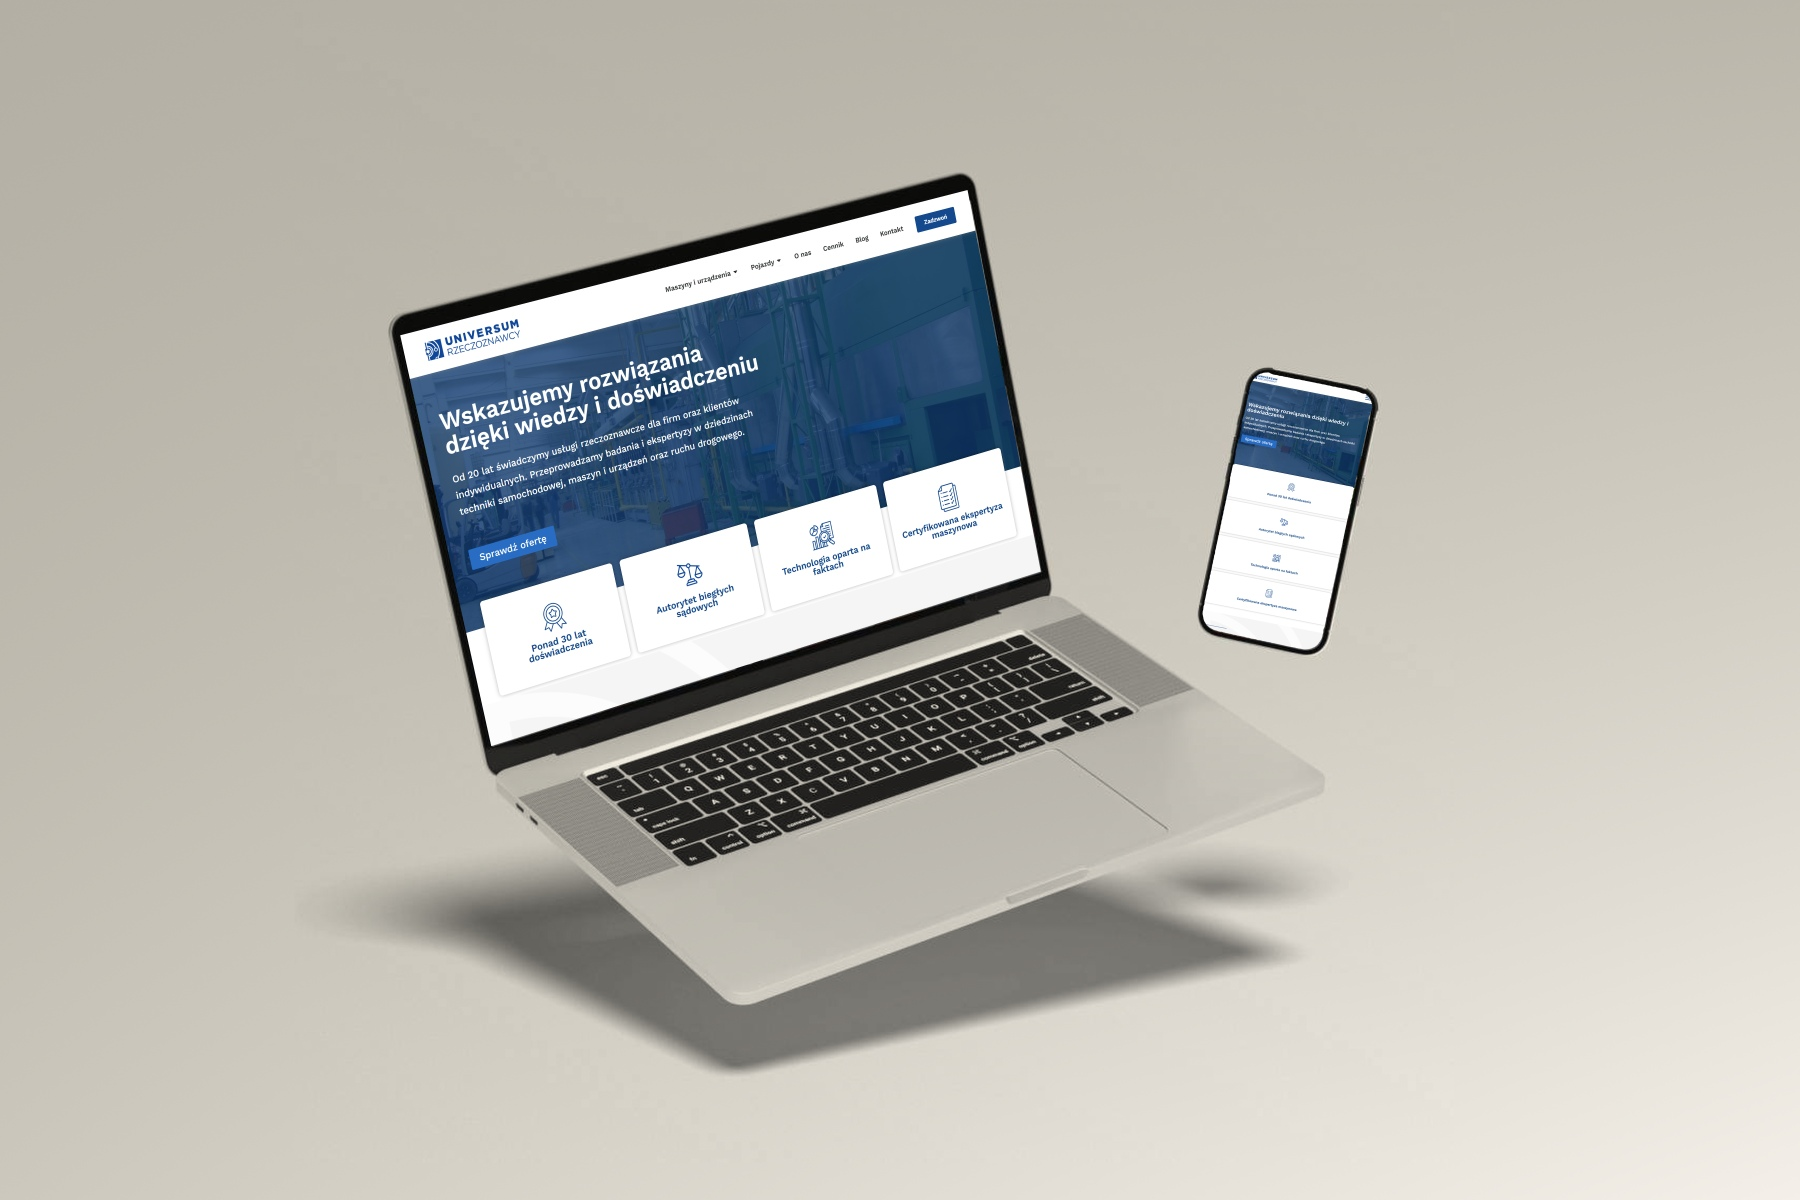
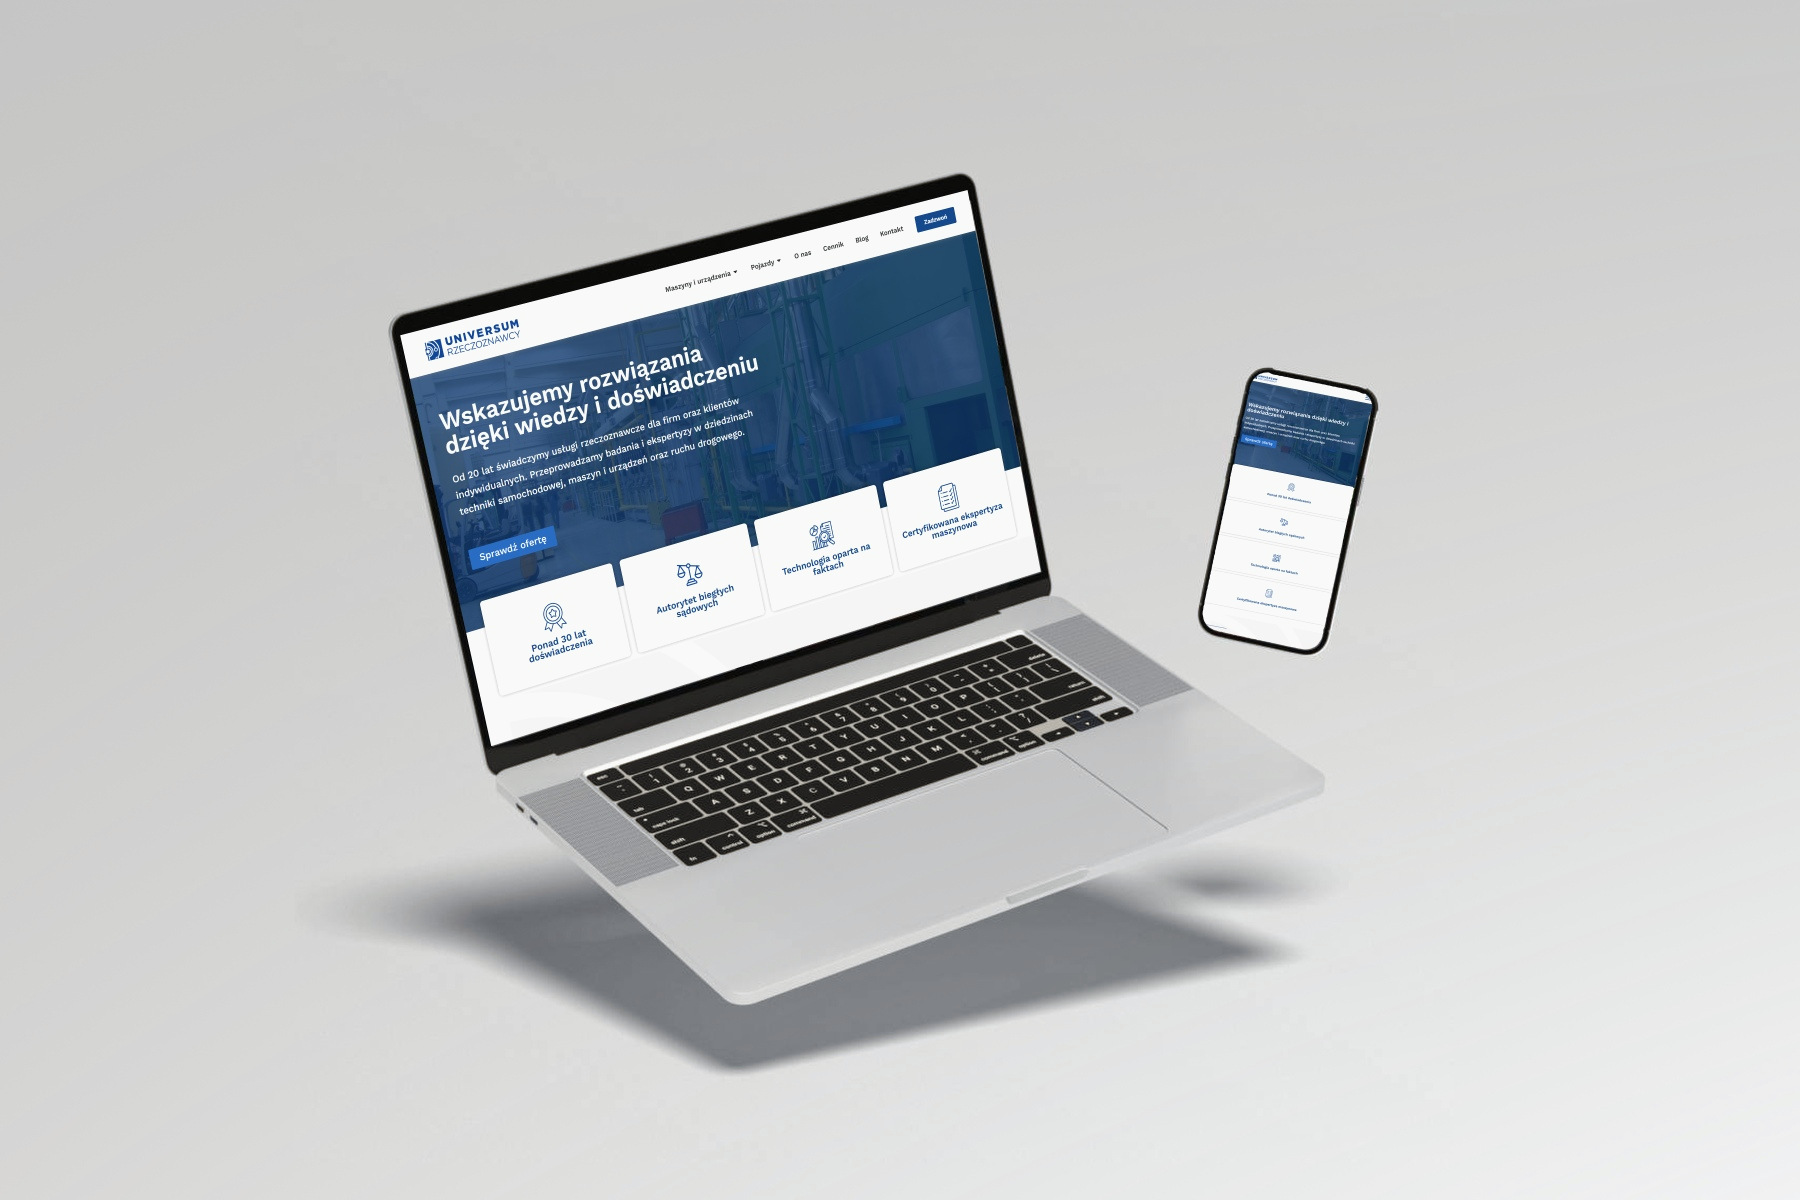
Add files via upload

diff --git a/bv6.html b/bv6.html
@@ -7,39 +7,7 @@
 <title>BV6 — Case Study | Yuliia Dovha</title>
 <meta name="description" content="BV6 — full UX audit and redesign for a technical-expert (rzeczoznawca) office covering vehicles, machinery and traffic accidents. UX/UI case study by Yuliia Dovha: audit, information architecture, content system and build.">
 <link rel="stylesheet" href="style.css?v=3">
-<link rel="stylesheet" href="marmix-additions.css?v=11">
-<style>
-  /* --- bv6 only: small addition on top of the shared case-study system --- */
-  .bv6-shot{
-    max-width: 560px; margin: 28px auto 0;
-    aspect-ratio: 3 / 4; overflow: hidden;
-    border-radius: var(--r-img); border: 1px solid var(--line);
-    box-shadow: 0 24px 60px -34px rgba(0,0,0,.30);
-  }
-  .bv6-shot img{ width: 100%; height: 100%; object-fit: cover; object-position: top center; display: block; }
-
-  /* --- before/after lightbox --- */
-  .ba-pair{ cursor: zoom-in; }
-  .lightbox{
-    position: fixed; inset: 0; background: rgba(10,10,10,.92);
-    display: none; align-items: center; justify-content: center;
-    flex-direction: column; gap: 18px; z-index: 999; padding: 56px 20px 40px;
-  }
-  .lightbox.open{ display: flex; }
-  .lb-close{
-    position: absolute; top: 18px; right: 22px; width: 42px; height: 42px;
-    border-radius: 50%; border: 1px solid rgba(255,255,255,.3); background: rgba(255,255,255,.08);
-    color: #fff; font-size: 22px; line-height: 1; cursor: pointer;
-  }
-  .lb-close:hover{ background: rgba(255,255,255,.18); }
-  .lb-inner{ display: flex; gap: 22px; max-width: 1240px; width: 100%; }
-  .lb-fig{ position: relative; flex: 1; min-width: 0; }
-  .lb-fig img{ width: 100%; height: auto; max-height: 76vh; object-fit: contain; border-radius: var(--r-img); display: block; background: #111; }
-  .lb-cap{ color: #d8d8d8; font-size: 14px; text-align: center; max-width: 760px; font-weight: 300; line-height: 1.6; }
-  .lb-cap strong{ color: #fff; }
-  .lb-hint{ color: #8a8a8a; font-size: 12px; text-align: center; }
-  @media (max-width: 720px){ .lb-inner{ flex-direction: column; overflow-y: auto; max-height: 78vh; } .lb-fig img{ max-height: none; } }
-</style>
+<link rel="stylesheet" href="marmix-additions.css?v=12">
 </head>
 <body class="marmix">
 
@@ -82,7 +50,7 @@
     </div>
   </div>
 
-  <!-- SHOWCASE 1: overview collage -->
+  <!-- SHOWCASE 1: two windows -->
   <section class="showcase-block reveal">
     <figure class="fullbleed">
       <img src="bv6-overview-2.jpg" alt="BV6 redesign — laptop and mobile views of the rebuilt site">
@@ -216,6 +184,14 @@
     </ol>
   </section>
 
+  <!-- SHOWCASE 2: six views -->
+  <section class="showcase-block reveal">
+    <figure class="fullbleed">
+      <img src="bv6-overview-1.jpg" alt="Overview of the redesigned BV6 site — six key screens in one view">
+    </figure>
+    <p class="cs-caption">The final approved designs &mdash; homepage, service pages, the rebuilt blog and contact, in one view.</p>
+  </section>
+
   <!-- KEY DECISIONS, VISUALISED -->
   <section class="cs-block reveal">
     <header class="sec-head">
@@ -277,14 +253,6 @@
     </div>
   </section>
 
-  <!-- SHOWCASE 2: second overview -->
-  <section class="showcase-block reveal">
-    <figure class="fullbleed">
-      <img src="bv6-overview-1.jpg" alt="BV6 redesign — a wider view of service pages and the new blog">
-    </figure>
-    <p class="cs-caption">A quick look across the redesign &mdash; homepage, service pages and the mobile experience side by side.</p>
-  </section>
-
   <!-- MOBILE / RESPONSIVE -->
   <section class="mobile-block reveal">
     <div class="wrap mobile-inner">
@@ -305,7 +273,7 @@
   <!-- 05 SOLUTION & RESULTS -->
   <section class="cs-block reveal">
     <header class="sec-head">
-      <span class="eyebrow idx">05</span>
+      <span class="eyebrow idx">04</span>
       <h2 class="sec-title">Solution &amp; results</h2>
     </header>
     <p>The full range &mdash; vehicles, machinery and traffic incidents &mdash; now sits under two
@@ -338,15 +306,15 @@
     <p class="h">Read more of my case studies</p>
     <div class="more-grid">
       <a class="mc" href="marmix.html">
-        <div class="mc-thumb has-img"><img class="mc-img" src="marmix-hero.jpg" alt="Marmix homepage shown on a MacBook and phone"><span class="mc-go">Read case &rarr;</span></div>
+        <div class="mc-thumb has-img"><img class="mc-img" src="marmix-hero.jpg" alt="Marmix homepage shown on a MacBook and phone"></div>
         <h4>Marmix</h4><p>Ready-mix concrete manufacturer &mdash; full audit, research and redesign.</p>
       </a>
       <a class="mc" href="biezynski.html">
-        <div class="mc-thumb"><span class="mc-mono">Bi</span><span class="mc-go">Read case &rarr;</span></div>
+        <div class="mc-thumb"><span class="mc-mono">Bi</span></div>
         <h4>Bie&#380;ynski</h4><p>A heritage family bakery reborn as a digital-first brand.</p>
       </a>
       <a class="mc" href="kalinamed.html">
-        <div class="mc-thumb"><span class="mc-mono">Km</span><span class="mc-go">Read case &rarr;</span></div>
+        <div class="mc-thumb"><span class="mc-mono">Km</span></div>
         <h4>KalinaMed</h4><p>Patient-focused personal brand for a doctor.</p>
       </a>
     </div>

diff --git a/marmix.html b/marmix.html
@@ -7,7 +7,7 @@
 <title>Marmix — Case Study | Yuliia Dovha</title>
 <meta name="description" content="Marmix — redesign of a ready-mix concrete manufacturer's website. UX/UI case study by Yuliia Dovha: audit, research, information architecture, UI design and build.">
 <link rel="stylesheet" href="style.css?v=3">
-<link rel="stylesheet" href="marmix-additions.css?v=11">
+<link rel="stylesheet" href="marmix-additions.css?v=12">
 </head>
 <body class="marmix">
 
@@ -97,7 +97,7 @@
       <header class="sec-head">
         <span class="eyebrow">Before &amp; after</span>
         <h2 class="sec-title">The same pages, rethought</h2>
-        <p class="sec-lead">Four key pages, shown as the buyer first sees them &mdash; the 2015 site on the left, the redesign on the right.</p>
+        <p class="sec-lead">Four key pages, shown as the buyer first sees them &mdash; the 2015 site on the left, the redesign on the right. Click any pair to compare them full-size.</p>
       </header>
 
       <div class="ba-grid">
@@ -310,15 +310,15 @@
     <p class="h">Read more of my case studies</p>
     <div class="more-grid">
       <a class="mc" href="bv6.html">
-        <div class="mc-thumb has-img"><img class="mc-img" src="bv6-hero.jpg" alt="BV6 homepage shown on a laptop and phones"><span class="mc-go">Read case &rarr;</span></div>
+        <div class="mc-thumb has-img"><img class="mc-img" src="bv6-hero.jpg" alt="BV6 homepage shown on a laptop and phones"></div>
         <h4>BV6</h4><p>Technical-expert office &mdash; UX audit, IA and a content system for dense, trust-critical information.</p>
       </a>
       <a class="mc" href="biezynski.html">
-        <div class="mc-thumb"><span class="mc-mono">Bi</span><span class="mc-go">Read case &rarr;</span></div>
+        <div class="mc-thumb"><span class="mc-mono">Bi</span></div>
         <h4>Bie&#380;ynski</h4><p>A heritage family bakery reborn as a digital-first brand.</p>
       </a>
       <a class="mc" href="kalinamed.html">
-        <div class="mc-thumb"><span class="mc-mono">Km</span><span class="mc-go">Read case &rarr;</span></div>
+        <div class="mc-thumb"><span class="mc-mono">Km</span></div>
         <h4>KalinaMed</h4><p>Patient-focused personal brand for a doctor.</p>
       </a>
     </div>
@@ -331,6 +331,17 @@
     <div class="reveal"><a class="btn" href="mailto:julidovha05@gmail.com">Contact Me</a></div>
   </section>
 </main>
+
+<!-- BEFORE/AFTER LIGHTBOX -->
+<div class="lightbox" id="lightbox">
+  <button class="lb-close" id="lbClose" aria-label="Close">&times;</button>
+  <div class="lb-inner">
+    <figure class="lb-fig"><span class="ba-tag old">Before</span><img id="lbImgOld" alt=""></figure>
+    <figure class="lb-fig"><span class="ba-tag new">After</span><img id="lbImgNew" alt=""></figure>
+  </div>
+  <p class="lb-cap" id="lbCap"></p>
+  <p class="lb-hint">Click outside the images, press Esc, or use the &times; button to close.</p>
+</div>
 
 <footer class="wrap footer">
   <div class="footer-links">
@@ -361,6 +372,34 @@
   setScreenHeight();
   window.addEventListener('resize', setScreenHeight);
   window.addEventListener('load', setScreenHeight);
+
+  // Before/after lightbox — click a pair to compare both images full-size
+  const lightbox = document.getElementById('lightbox');
+  const lbImgOld = document.getElementById('lbImgOld');
+  const lbImgNew = document.getElementById('lbImgNew');
+  const lbCap = document.getElementById('lbCap');
+  const lbClose = document.getElementById('lbClose');
+
+  function openLightbox(pair) {
+    const imgs = pair.querySelectorAll('.ba-shot img');
+    const cap = pair.querySelector('.ba-cap');
+    if (imgs.length < 2) return;
+    lbImgOld.src = imgs[0].src; lbImgOld.alt = imgs[0].alt;
+    lbImgNew.src = imgs[1].src; lbImgNew.alt = imgs[1].alt;
+    lbCap.innerHTML = cap ? cap.innerHTML : '';
+    lightbox.classList.add('open');
+    document.body.style.overflow = 'hidden';
+  }
+  function closeLightbox() {
+    lightbox.classList.remove('open');
+    document.body.style.overflow = '';
+  }
+  document.querySelectorAll('.ba-pair').forEach(pair => {
+    pair.addEventListener('click', () => openLightbox(pair));
+  });
+  lbClose.addEventListener('click', closeLightbox);
+  lightbox.addEventListener('click', (e) => { if (e.target === lightbox) closeLightbox(); });
+  document.addEventListener('keydown', (e) => { if (e.key === 'Escape') closeLightbox(); });
 </script>
 </body>
 </html>

diff --git a/marmix-additions.css b/marmix-additions.css
@@ -1,5 +1,5 @@
 /* ============================================================
-   MARMIX — CASE STUDY DESIGN SYSTEM  (v11, authoritative)
+   MARMIX — CASE STUDY DESIGN SYSTEM  (v12, authoritative)
    Ładowany PO style.css, więc te reguły są nadrzędne.
    To jest "źródło prawdy" dla podstrony projektu — skopiuj
    ten sam system na the-coat / biezynski / kalinamed, żeby
@@ -241,6 +241,31 @@ html, body { overflow-x: hidden; }
 .ba-cap{ margin-top: 13px; font-size: 14px; color: var(--muted); font-weight: 300; line-height: 1.55; }
 .ba-cap strong{ color: var(--ink); font-weight: 600; }
 
+/* --- Before / After — powiększenie (lightbox), wspólne dla wszystkich case studies --- */
+.ba-pair{ cursor: zoom-in; }
+.lightbox{
+  position: fixed; inset: 0; background: rgba(10,10,10,.92);
+  display: none; align-items: center; justify-content: center;
+  flex-direction: column; gap: 18px; z-index: 999; padding: 56px 20px 40px;
+}
+.lightbox.open{ display: flex; }
+.lb-close{
+  position: absolute; top: 18px; right: 22px; width: 42px; height: 42px;
+  border-radius: 50%; border: 1px solid rgba(255,255,255,.3); background: rgba(255,255,255,.08);
+  color: #fff; font-size: 22px; line-height: 1; cursor: pointer;
+}
+.lb-close:hover{ background: rgba(255,255,255,.18); }
+.lb-inner{ display: flex; gap: 22px; max-width: 1240px; width: 100%; }
+.lb-fig{ position: relative; flex: 1; min-width: 0; }
+.lb-fig img{ width: 100%; height: auto; max-height: 76vh; object-fit: contain; border-radius: var(--r-img); display: block; background: #111; }
+.lb-cap{ color: #d8d8d8; font-size: 14px; text-align: center; max-width: 760px; font-weight: 300; line-height: 1.6; }
+.lb-cap strong{ color: #fff; }
+.lb-hint{ color: #8a8a8a; font-size: 12px; text-align: center; }
+@media (max-width: 720px){
+  .lb-inner{ flex-direction: column; overflow-y: auto; max-height: 78vh; }
+  .lb-fig img{ max-height: none; }
+}
+
 /* ============================================================
    7. Persony (jeden język kart + hover)
    ============================================================ */
@@ -361,24 +386,13 @@ html, body { overflow-x: hidden; }
   font-size: clamp(46px, 6vw, 68px); font-weight: 700; letter-spacing: -1px;
   color: #fff; mix-blend-mode: overlay; opacity: .9; user-select: none;
 }
-.mc-go{
-  position: absolute; left: 18px; bottom: 16px;
-  font-size: 13px; font-weight: 500; color: var(--ink);
-  opacity: 0; transform: translateY(6px); transition: opacity .3s var(--ease), transform .3s var(--ease);
-}
 .mc:hover .mc-thumb{ transform: var(--lift); box-shadow: 0 26px 52px -30px rgba(0,0,0,.30); border-color: #cfcfcf; }
-.mc:hover .mc-go{ opacity: 1; transform: none; }
-.mc-thumb.has-img{ background: #101010; }
+.mc-thumb.has-img{ background: #f2f2f2; }
 .mc-thumb .mc-img{
   position: absolute; inset: 0; width: 100%; height: 100%;
   object-fit: cover; object-position: top center; z-index: 0;
 }
-.mc-thumb.has-img::after{
-  content: ""; position: absolute; inset: 0; z-index: 1;
-  background: linear-gradient(180deg, rgba(0,0,0,0) 58%, rgba(0,0,0,.58) 100%);
-}
-.mc-thumb .mc-mono, .mc-thumb .mc-go{ position: relative; z-index: 2; }
-.mc-thumb.has-img .mc-go{ color: #fff; }
+.mc-thumb .mc-mono{ position: relative; z-index: 2; }
 .more-grid h4{ text-align: center; font-weight: 600; font-size: 18px; margin: 18px 0 8px; }
 .more-grid p{ text-align: center; color: var(--muted); font-size: 14px; font-weight: 300; max-width: 32ch; margin: 0 auto; }
 

diff --git a/the-coat.html b/the-coat.html
@@ -7,7 +7,7 @@
 <title>The Coat — Case Study | Yuliia Dovha</title>
 <meta name="description" content="The Coat — a fashion e-commerce concept for Ukrainian womenswear brand The COAT by Katya Silchenko. UX/UI case study by Yuliia Dovha: research, information architecture, UX, UI and prototype.">
 <link rel="stylesheet" href="style.css?v=3">
-<link rel="stylesheet" href="marmix-additions.css?v=11">
+<link rel="stylesheet" href="marmix-additions.css?v=12">
 <style>
   /* --- the-coat only: small additions on top of the shared case-study system --- */
   .coat-phone-shot{
@@ -292,15 +292,15 @@
     <p class="h">Read more of my case studies</p>
     <div class="more-grid">
       <a class="mc" href="marmix.html">
-        <div class="mc-thumb"><span class="mc-mono">Mx</span><span class="mc-go">Read case &rarr;</span></div>
+        <div class="mc-thumb"><span class="mc-mono">Mx</span></div>
         <h4>Marmix</h4><p>Ready-mix concrete manufacturer &mdash; full audit, research and redesign.</p>
       </a>
       <a class="mc" href="biezynski.html">
-        <div class="mc-thumb"><span class="mc-mono">Bi</span><span class="mc-go">Read case &rarr;</span></div>
+        <div class="mc-thumb"><span class="mc-mono">Bi</span></div>
         <h4>Bie&#380;ynski</h4><p>A heritage family bakery reborn as a digital-first brand.</p>
       </a>
       <a class="mc" href="kalinamed.html">
-        <div class="mc-thumb"><span class="mc-mono">Km</span><span class="mc-go">Read case &rarr;</span></div>
+        <div class="mc-thumb"><span class="mc-mono">Km</span></div>
         <h4>KalinaMed</h4><p>Patient-focused personal brand for a doctor.</p>
       </a>
     </div>
